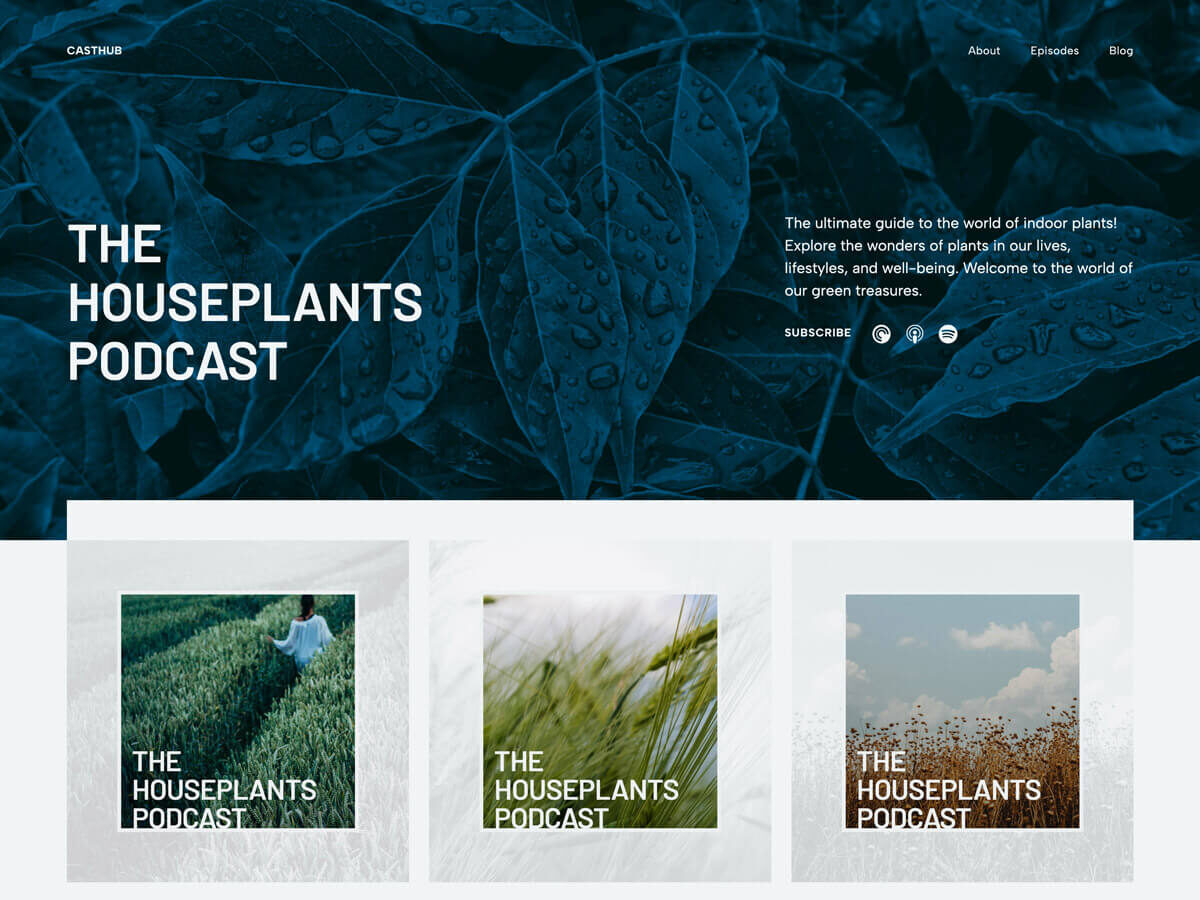
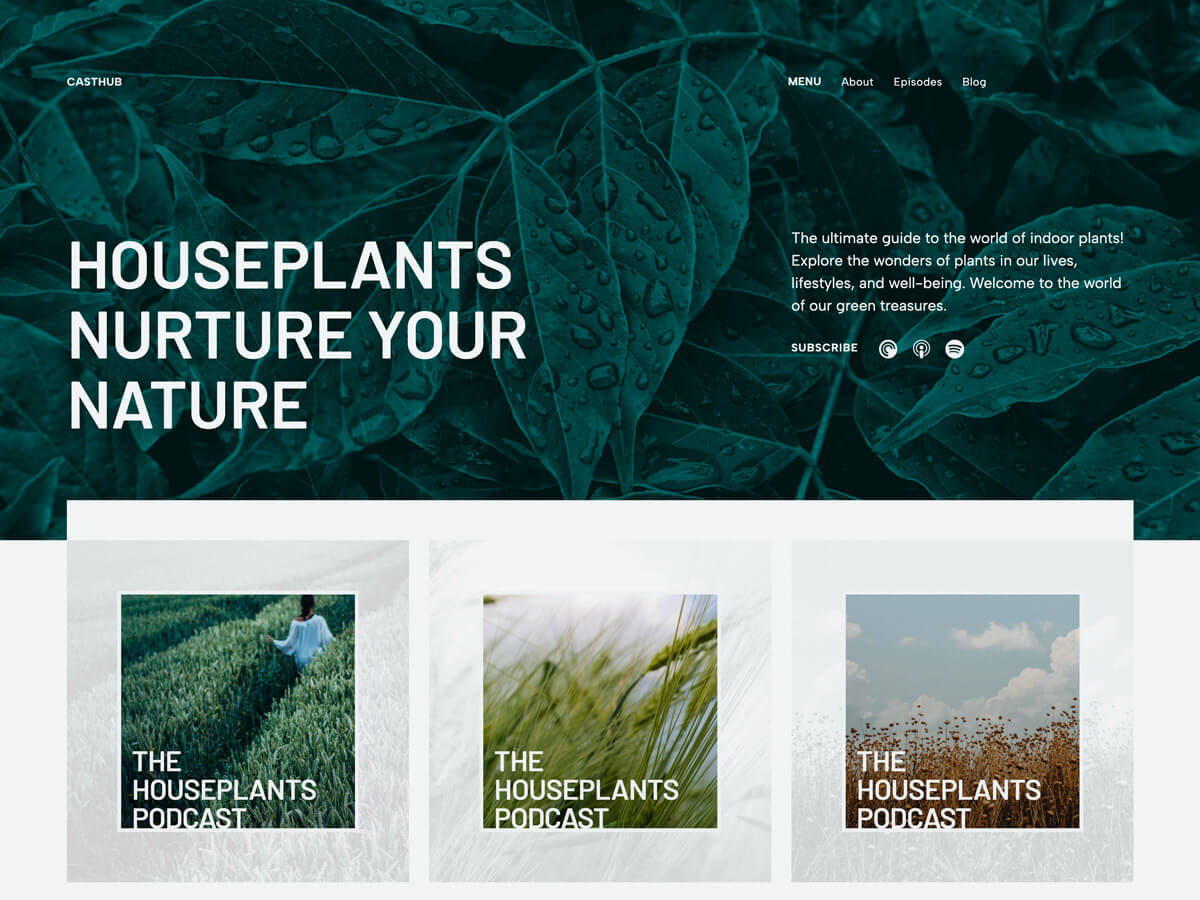
Casthub: updates headlins and necessary font sizes

diff --git a/casthub/patterns/header-home.php b/casthub/patterns/header-home.php
@@ -8,18 +8,35 @@
 <!-- wp:cover {"url":"<?php echo esc_url( get_template_directory_uri() ); ?>/assets/images/tree-dew-plant-leaf-flower-raindrop.jpg","dimRatio":50,"overlayColor":"secondary","isUserOverlayColor":true,"focalPoint":{"x":0.5,"y":0},"minHeight":60,"minHeightUnit":"vh","style":{"spacing":{"margin":{"top":"0","bottom":"0"},"padding":{"top":"0","bottom":"0","left":"0","right":"0"}},"color":{"duotone":"var:preset|duotone|default"}},"textColor":"base","layout":{"type":"default"}} -->
 <div class="wp-block-cover has-base-color has-text-color" style="margin-top:0;margin-bottom:0;padding-top:0;padding-right:0;padding-bottom:0;padding-left:0;min-height:60vh"><span aria-hidden="true" class="wp-block-cover__background has-secondary-background-color has-background-dim"></span><img class="wp-block-cover__image-background" alt="" src="<?php echo esc_url( get_template_directory_uri() ); ?>/assets/images/tree-dew-plant-leaf-flower-raindrop.jpg" style="object-position:50% 0%" data-object-fit="cover" data-object-position="50% 0%"/><div class="wp-block-cover__inner-container"><!-- wp:group {"metadata":{"name":"Wrapper 65vh"},"align":"wide","style":{"dimensions":{"minHeight":"60vh"}},"layout":{"type":"constrained"}} -->
 <div class="wp-block-group alignwide" style="min-height:60vh"><!-- wp:group {"metadata":{"name":"Stack 65vh"},"align":"wide","style":{"dimensions":{"minHeight":"60vh"}},"layout":{"type":"flex","orientation":"vertical","verticalAlignment":"space-between","justifyContent":"stretch","flexWrap":"wrap"}} -->
-<div class="wp-block-group alignwide" style="min-height:60vh"><!-- wp:group {"metadata":{"name":"Header wrapper"},"align":"wide","style":{"spacing":{"padding":{"right":"0","left":"0"},"margin":{"top":"var:preset|spacing|70","bottom":"var:preset|spacing|70"}}},"layout":{"type":"flex","justifyContent":"space-between"}} -->
-<div class="wp-block-group alignwide" style="margin-top:var(--wp--preset--spacing--70);margin-bottom:var(--wp--preset--spacing--70);padding-right:0;padding-left:0"><!-- wp:site-title /-->
+<div class="wp-block-group alignwide" style="min-height:60vh"><!-- wp:columns {"verticalAlignment":"center","metadata":{"name":"Header wrapper"},"align":"wide","style":{"spacing":{"margin":{"top":"var:preset|spacing|70","bottom":"var:preset|spacing|70"},"blockGap":{"top":"var:preset|spacing|30"}}}} -->
+<div class="wp-block-columns alignwide are-vertically-aligned-center" style="margin-top:var(--wp--preset--spacing--70);margin-bottom:var(--wp--preset--spacing--70)"><!-- wp:column {"verticalAlignment":"center","width":"66.6%"} -->
+<div class="wp-block-column is-vertically-aligned-center" style="flex-basis:66.6%"><!-- wp:group {"metadata":{"name":"Branding"},"layout":{"type":"flex","flexWrap":"nowrap"}} -->
+<div class="wp-block-group"><!-- wp:site-title /-->
+
+<!-- wp:site-tagline /--></div>
+<!-- /wp:group --></div>
+<!-- /wp:column -->
+
+<!-- wp:column {"verticalAlignment":"center","width":"33.3%"} -->
+<div class="wp-block-column is-vertically-aligned-center" style="flex-basis:33.3%"><!-- wp:group {"metadata":{"name":"Menu"},"layout":{"type":"flex","flexWrap":"nowrap"}} -->
+<div class="wp-block-group"><!-- wp:paragraph {"style":{"typography":{"textTransform":"uppercase","letterSpacing":"0.025rem","fontStyle":"normal","fontWeight":"700"}},"fontSize":"x-small"} -->
+<p class="has-x-small-font-size" style="font-style:normal;font-weight:700;letter-spacing:0.025rem;text-transform:uppercase"><?php esc_html_e('Menu', 'casthub');?></p>
+<!-- /wp:paragraph -->
 
 <!-- wp:navigation {"overlayMenu":"never","style":{"spacing":{"margin":{"top":"0"}}},"layout":{"type":"flex","setCascadingProperties":true,"justifyContent":"right","orientation":"horizontal"}} /--></div>
-<!-- /wp:group -->
+<!-- /wp:group --></div>
+<!-- /wp:column --></div>
+<!-- /wp:columns -->
 
 <!-- wp:columns {"align":"wide"} -->
-<div class="wp-block-columns alignwide"><!-- wp:column {"width":"66.6%"} -->
-<div class="wp-block-column" style="flex-basis:66.6%"><!-- wp:heading {"level":1,"style":{"elements":{"link":{"color":{"text":"var:preset|color|base"}}}},"textColor":"base"} -->
-<h1 class="wp-block-heading has-base-color has-text-color has-link-color"><?php /* Translators: 1. is a 'br' HTML element, 2. is a 'br' HTML element */ 
-echo sprintf( esc_html__( 'The%1$sHouseplants%2$sPodcast', 'casthub' ), '<br>', '<br>' ); ?></h1>
+<div class="wp-block-columns alignwide"><!-- wp:column {"width":"61.6%"} -->
+<div class="wp-block-column" style="flex-basis:61.6%"><!-- wp:heading {"level":1,"style":{"elements":{"link":{"color":{"text":"var:preset|color|base"}}}},"textColor":"base"} -->
+<h1 class="wp-block-heading has-base-color has-text-color has-link-color"><?php esc_html_e('Houseplants nurture your nature', 'casthub');?></h1>
 <!-- /wp:heading --></div>
+<!-- /wp:column -->
+
+<!-- wp:column {"width":"5%"} -->
+<div class="wp-block-column" style="flex-basis:5%"></div>
 <!-- /wp:column -->
 
 <!-- wp:column {"width":"33.3%"} -->

diff --git a/casthub/patterns/home.php b/casthub/patterns/home.php
@@ -41,7 +41,7 @@
 <div class="wp-block-columns alignwide"><!-- wp:column {"verticalAlignment":"stretch","width":"66.6%"} -->
 <div class="wp-block-column is-vertically-aligned-stretch" style="flex-basis:66.6%"><!-- wp:group {"style":{"dimensions":{"minHeight":"100%"}},"layout":{"type":"flex","orientation":"vertical","justifyContent":"stretch","verticalAlignment":"space-between"}} -->
 <div class="wp-block-group" style="min-height:100%"><!-- wp:heading {"level":1,"style":{"typography":{"textTransform":"none"}}} -->
-<h1 class="wp-block-heading" style="text-transform:none"><?php esc_html_e('Meet Gwyneth, our  houseplant expert host.', 'casthub');?></h1>
+<h1 class="wp-block-heading" style="text-transform:none"><?php esc_html_e('Meet Rose, our houseplant expert host', 'casthub');?></h1>
 <!-- /wp:heading -->
 
 <!-- wp:columns -->
@@ -52,7 +52,7 @@
 <!-- wp:column -->
 <div class="wp-block-column"><!-- wp:group {"layout":{"type":"flex","orientation":"vertical"}} -->
 <div class="wp-block-group"><!-- wp:paragraph -->
-<p><?php esc_html_e('Gwyneth’s journey into the realm of houseplants began with a small windowsill garden during her college years. What started as a few humble succulents soon blossomed into a full-fledged passion for nurturing…', 'casthub');?></p>
+<p><?php esc_html_e('Rose’s journey into the realm of houseplants began with a small windowsill garden during her college years. What started as a few humble succulents soon blossomed into a full-fledged passion for nurturing…', 'casthub');?></p>
 <!-- /wp:paragraph -->
 
 <!-- wp:read-more {"style":{"typography":{"textTransform":"uppercase","letterSpacing":"0.05rem"}},"fontSize":"x-small"} /--></div>
